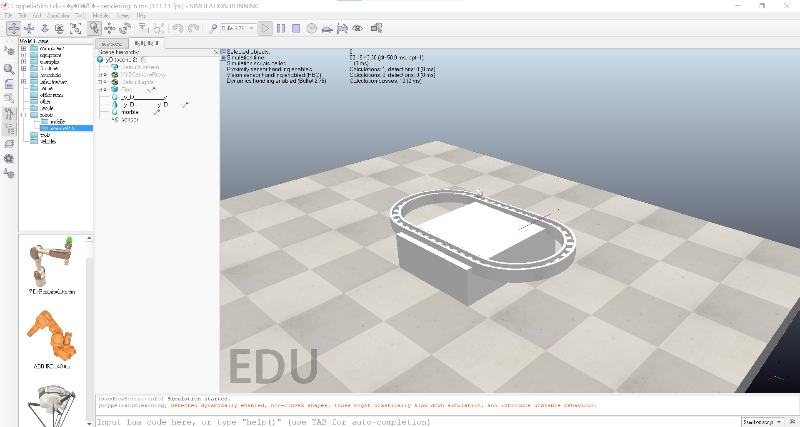
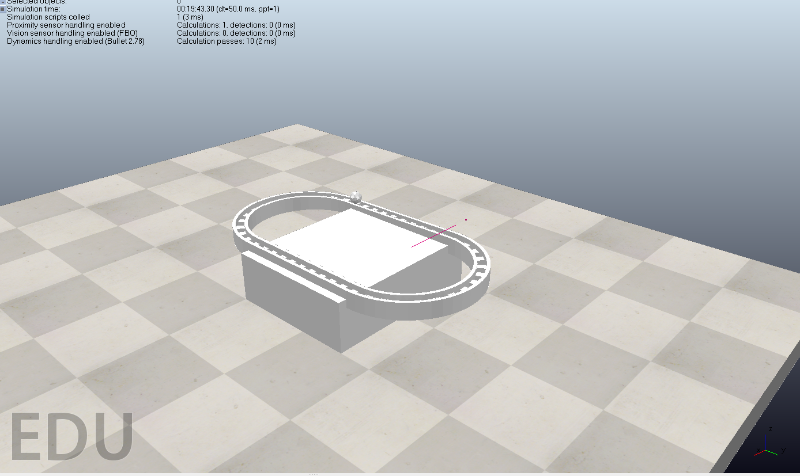
修改 軌道永動機 示意圖片

diff --git a/content/tipuesearch_content.js b/content/tipuesearch_content.js
@@ -1,1 +1,1 @@
-var tipuesearch = {"pages": [{'title': 'About', 'text': ' https://github.com/mdecycu/cmsite  \n', 'tags': '', 'url': 'About.html'}, {'title': '自評', 'text': '\xa0 \n 自評分數:60 \n \xa0 \n A: 是否 按照進度明確標示倉儲的改版歷程  ans.大部分有 \n B: 是否根據  IPv4 與 IPv6  網路環境設定進行作法討論 ans.有時有 \n C: 是否就  Replit、s.cycu.org 與 localhost  情境下對個人與分組倉儲進行設定操作 ans.是 \n D: 是否就所分配的  CAD 套件 從安裝設定到繪圖提供內容參考 ans.是 \n E: 是否使用所分配的 CAD 套件完成 專案一零組件繪圖 , 並提供零組件下載 ans. \n F: 是否將自行繪製的專案一零組件 轉入 CoppeliaSim  ans.是 \n G: 是否利用  ZMQ Remote API Python  對專案一轉入的零組件設定感測器, 並進行 鋼球永動模擬  ans.尚未 \n H: 是否實際操作  Triangle 軌道系統 的鋼球永動模擬 ans.操作過一半 \n I: 是否完成 W15 的平面雙 U 迴路上的 鋼球永動系統繪圖、轉檔與系統模擬  ans.完成繪圖與轉檔 \n J: 是否使用所分配的 CAD 套件完成 專案二 1D 平台零組件繪圖 , 並提供零組件下載 ans.尚未 \n K: 是否利用  ZMQ Remote API Python  對專案二轉入的零組件設定感測器, 並進行鋼球永動模擬 ans.尚未 \n L: 是否針對專案二的 1D 平台鋼球平衡系統所需的  PID 控制理論 進行資料收集與 ChatGPT 對答 ans.尚未 \n 除影片12 13 其他皆以觀看 \n', 'tags': '', 'url': '自評.html'}, {'title': 'exam', 'text': '\n', 'tags': '', 'url': 'exam.html'}, {'title': '專案一', 'text': '', 'tags': '', 'url': '專案一.html'}, {'title': '磁力吸引', 'text': '\n 在第一次作圖時，因為不熟悉Inventor 的一些操作，所以在作圖時間較長。 \n 而當完成時才發現，題目要求Z軸向上<解果當時操作失誤，沒注意就將Y軸向上了。 \n 所以經過翻轉還是沒辦法將Z軸轉上來，所以還是重新作圖了，當然第二次的速度就相對快很多了。 \n \xa0 \n \xa0 \n 示意圖: \n \xa0 \n \n \xa0 \n \xa0 \n \xa0 \n \xa0 \n 零件圖: \n \n \n 底座↑ \n \xa0 \n \xa0 \n \xa0 \n \n 支撐柱 ↑ \n \xa0 \n \xa0 \n \xa0 \n \n 碗↑ \n \xa0 \n \xa0 \n \xa0 \n \n 軌道↑ \n \xa0 \n \xa0 \n 組合圖: \n Inventor圖檔: 連結 \n \xa0 \n \xa0 \n \n', 'tags': '', 'url': '磁力吸引.html'}, {'title': '專案二', 'text': '\xa0 \n \n \n \n', 'tags': '', 'url': '專案二.html'}, {'title': '軌道永動機', 'text': '\xa0 \n 在作圖時，這個看似簡單的原件，在畫軌道時其實是最費時間的， \n 好在最後成功使用陣列功能以及鏡射功能才能迅速地完成。 \n 之後在同學協助下，成功放置感應線，並設定軌道碰撞，讓球落下時可以在預定範圍內移動。 \n \xa0 \n \xa0 \n 示意圖 \n \n \xa0 \n \xa0 \n \xa0 \n 零件圖 \n \xa0 \n \n 底座 ⬆ \n \xa0 \n \n 軌道 ⬆ \n \xa0 \n', 'tags': '', 'url': '軌道永動機.html'}, {'title': 'Brython', 'text': 'https://en.wikipedia.org/wiki/Python_(programming_language) \n Examples: \n https://gist.github.com/mdecycu/d9082d678096bd58378d6afe2c7fa05d \n https://www.geeksforgeeks.org/python-programming-examples/ \n https://www.programiz.com/python-programming/examples \n https://www.freecodecamp.org/news/python-code-examples-sample-script-coding-tutorial-for-beginners/ \n Python Tutorial: \n https://docs.python.org/3/tutorial/ \n An informal introduction to Python \n Indentation (Python 採 4 個 Spaces 縮排, 以界定執行範圍) \n Variables ( Python Keywords ) \n Comments (# 單行註解, 三個單引號或三個雙引號標註多行註解) \n Numbers  (整數 int(), 浮點數 float()) \n Strings  (字串) \n print (Python 內建函式,  print()  函式) \n Python control flow tools \n for \n if \n range \n open \n read \n lists \n tuples \n dictionaries \n functions \n try ... except \n break \n pass \n classes \n 這個頁面 demo 如何在同一頁面下納入多個線上 Ace 編輯器與執行按鈕 ( practice_html.txt  動態頁面超文件). \n practice_html.txt  動態頁面超文件應該可以在啟動 Brython 時, 設定將 .py 檔案放入 downloads/py 目錄中引用. \n 亦即將所有對應的 html 也使用 Brython 產生, 然後寫為  class  後, 在範例導入時透過  instance  引用. \n <!-- 啟動 Brython -->\n<script>\nwindow.onload=function(){\nbrython({debug:1, pythonpath:[\'./../cmsimde/static/\',\'./../downloads/py/\']});\n}\n</script> \n 從 1 累加到 100: \n 1 add to 100 \n 將 iterable 與 iterator  相關說明 , 利用 Brython 與 Ace Editor 整理在這個頁面. \n  導入 brython 程式庫  \n \n \n \n \n  啟動 Brython  \n \n \n \n  導入 FileSaver 與 filereader  \n \n \n \n \n  導入 ace  \n \n \n \n \n \n \n  導入 gearUtils-0.9.js Cango 齒輪繪圖程式庫  \n \n \n \n \n \n \n  請注意, 這裡使用 Javascript 將 localStorage["kw_py_src1"] 中存在近端瀏覽器的程式碼, 由使用者決定存檔名稱 \n \n \n \n \n \n \n  add 1 to 100 開始  \n \n \n  add 1 to 100 結束 \n  editor1 開始  \n  用來顯示程式碼的 editor 區域  \n \n  以下的表單與按鈕與前面的 Javascript doSave 函式以及 FileSaver.min.js 互相配合  \n  存擋表單開始  \n Filename:  .py   \n  存擋表單結束  \n \n  執行與清除按鈕開始  \n Run   Output   清除輸出區 清除繪圖區 Reload \n  執行與清除按鈕結束  \n \n  程式執行 ouput 區  \n \n  Brython 程式執行的結果, 都以 brython_div1 作為切入位置  \n \n  editor1 結束   ##########################################  \n 從 1 累加到 100 part2: \n 1 add to 100 cango_three_gears BSnake AI Tetris Rotating Block \n  請注意, 這裡使用 Javascript 將 localStorage["kw_py_src2"] 中存在近端瀏覽器的程式碼, 由使用者決定存檔名稱 \n \n \n \n  add 1 to 100 part2 開始  \n \n \n  add 1 to 100 part2 結束 \n  editor2 開始  \n  用來顯示程式碼的 editor 區域  \n \n  以下的表單與按鈕與前面的 Javascript doSave 函式以及 FileSaver.min.js 互相配合  \n  存擋表單開始  \n Filename:  .py   \n  存擋表單結束  \n \n  執行與清除按鈕開始  \n Run   Output   清除輸出區 清除繪圖區 Reload \n  執行與清除按鈕結束  \n \n  程式執行 ouput 區  \n \n  Brython 程式執行的結果, 都以 brython_div1 作為切入位置  \n \n  editor2 結束  \n \n \n', 'tags': '', 'url': 'Brython.html'}]};
+var tipuesearch = {"pages": [{'title': 'About', 'text': ' https://github.com/mdecycu/cmsite  \n', 'tags': '', 'url': 'About.html'}, {'title': '自評', 'text': '\xa0 \n 自評分數:60 \n \xa0 \n A: 是否 按照進度明確標示倉儲的改版歷程  ans.大部分有 \n B: 是否根據  IPv4 與 IPv6  網路環境設定進行作法討論 ans.有時有 \n C: 是否就  Replit、s.cycu.org 與 localhost  情境下對個人與分組倉儲進行設定操作 ans.是 \n D: 是否就所分配的  CAD 套件 從安裝設定到繪圖提供內容參考 ans.是 \n E: 是否使用所分配的 CAD 套件完成 專案一零組件繪圖 , 並提供零組件下載 ans. \n F: 是否將自行繪製的專案一零組件 轉入 CoppeliaSim  ans.是 \n G: 是否利用  ZMQ Remote API Python  對專案一轉入的零組件設定感測器, 並進行 鋼球永動模擬  ans.尚未 \n H: 是否實際操作  Triangle 軌道系統 的鋼球永動模擬 ans.操作過一半 \n I: 是否完成 W15 的平面雙 U 迴路上的 鋼球永動系統繪圖、轉檔與系統模擬  ans.完成繪圖與轉檔 \n J: 是否使用所分配的 CAD 套件完成 專案二 1D 平台零組件繪圖 , 並提供零組件下載 ans.尚未 \n K: 是否利用  ZMQ Remote API Python  對專案二轉入的零組件設定感測器, 並進行鋼球永動模擬 ans.尚未 \n L: 是否針對專案二的 1D 平台鋼球平衡系統所需的  PID 控制理論 進行資料收集與 ChatGPT 對答 ans.尚未 \n 除影片12 13 其他皆以觀看 \n', 'tags': '', 'url': '自評.html'}, {'title': 'exam', 'text': '\n', 'tags': '', 'url': 'exam.html'}, {'title': '專案一', 'text': '', 'tags': '', 'url': '專案一.html'}, {'title': '磁力吸引', 'text': '\n 在第一次作圖時，因為不熟悉Inventor 的一些操作，所以在作圖時間較長。 \n 而當完成時才發現，題目要求Z軸向上<解果當時操作失誤，沒注意就將Y軸向上了。 \n 所以經過翻轉還是沒辦法將Z軸轉上來，所以還是重新作圖了，當然第二次的速度就相對快很多了。 \n \xa0 \n \xa0 \n 示意圖: \n \xa0 \n \n \xa0 \n \xa0 \n \xa0 \n \xa0 \n 零件圖: \n \n \n 底座↑ \n \xa0 \n \xa0 \n \xa0 \n \n 支撐柱 ↑ \n \xa0 \n \xa0 \n \xa0 \n \n 碗↑ \n \xa0 \n \xa0 \n \xa0 \n \n 軌道↑ \n \xa0 \n \xa0 \n 組合圖: \n Inventor圖檔: 連結 \n \xa0 \n \xa0 \n \n', 'tags': '', 'url': '磁力吸引.html'}, {'title': '專案二', 'text': '\xa0 \n \n \n \n', 'tags': '', 'url': '專案二.html'}, {'title': '軌道永動機', 'text': '\xa0 \n 在作圖時，這個看似簡單的原件，在畫軌道時其實是最費時間的， \n 好在最後成功使用陣列功能以及鏡射功能才能迅速地完成。 \n 之後在同學協助下，成功放置感應線，並設定軌道碰撞，讓球落下時可以在預定範圍內移動。 \n \xa0 \n \xa0 \n 示意圖 \n   \n \xa0 \n \xa0 \n 零件圖 \n \xa0 \n \n 底座 ⬆ \n \xa0 \n \n 軌道 ⬆ \n \xa0 \n', 'tags': '', 'url': '軌道永動機.html'}, {'title': 'Brython', 'text': 'https://en.wikipedia.org/wiki/Python_(programming_language) \n Examples: \n https://gist.github.com/mdecycu/d9082d678096bd58378d6afe2c7fa05d \n https://www.geeksforgeeks.org/python-programming-examples/ \n https://www.programiz.com/python-programming/examples \n https://www.freecodecamp.org/news/python-code-examples-sample-script-coding-tutorial-for-beginners/ \n Python Tutorial: \n https://docs.python.org/3/tutorial/ \n An informal introduction to Python \n Indentation (Python 採 4 個 Spaces 縮排, 以界定執行範圍) \n Variables ( Python Keywords ) \n Comments (# 單行註解, 三個單引號或三個雙引號標註多行註解) \n Numbers  (整數 int(), 浮點數 float()) \n Strings  (字串) \n print (Python 內建函式,  print()  函式) \n Python control flow tools \n for \n if \n range \n open \n read \n lists \n tuples \n dictionaries \n functions \n try ... except \n break \n pass \n classes \n 這個頁面 demo 如何在同一頁面下納入多個線上 Ace 編輯器與執行按鈕 ( practice_html.txt  動態頁面超文件). \n practice_html.txt  動態頁面超文件應該可以在啟動 Brython 時, 設定將 .py 檔案放入 downloads/py 目錄中引用. \n 亦即將所有對應的 html 也使用 Brython 產生, 然後寫為  class  後, 在範例導入時透過  instance  引用. \n <!-- 啟動 Brython -->\n<script>\nwindow.onload=function(){\nbrython({debug:1, pythonpath:[\'./../cmsimde/static/\',\'./../downloads/py/\']});\n}\n</script> \n 從 1 累加到 100: \n 1 add to 100 \n 將 iterable 與 iterator  相關說明 , 利用 Brython 與 Ace Editor 整理在這個頁面. \n  導入 brython 程式庫  \n \n \n \n \n  啟動 Brython  \n \n \n \n  導入 FileSaver 與 filereader  \n \n \n \n \n  導入 ace  \n \n \n \n \n \n \n  導入 gearUtils-0.9.js Cango 齒輪繪圖程式庫  \n \n \n \n \n \n \n  請注意, 這裡使用 Javascript 將 localStorage["kw_py_src1"] 中存在近端瀏覽器的程式碼, 由使用者決定存檔名稱 \n \n \n \n \n \n \n  add 1 to 100 開始  \n \n \n  add 1 to 100 結束 \n  editor1 開始  \n  用來顯示程式碼的 editor 區域  \n \n  以下的表單與按鈕與前面的 Javascript doSave 函式以及 FileSaver.min.js 互相配合  \n  存擋表單開始  \n Filename:  .py   \n  存擋表單結束  \n \n  執行與清除按鈕開始  \n Run   Output   清除輸出區 清除繪圖區 Reload \n  執行與清除按鈕結束  \n \n  程式執行 ouput 區  \n \n  Brython 程式執行的結果, 都以 brython_div1 作為切入位置  \n \n  editor1 結束   ##########################################  \n 從 1 累加到 100 part2: \n 1 add to 100 cango_three_gears BSnake AI Tetris Rotating Block \n  請注意, 這裡使用 Javascript 將 localStorage["kw_py_src2"] 中存在近端瀏覽器的程式碼, 由使用者決定存檔名稱 \n \n \n \n  add 1 to 100 part2 開始  \n \n \n  add 1 to 100 part2 結束 \n  editor2 開始  \n  用來顯示程式碼的 editor 區域  \n \n  以下的表單與按鈕與前面的 Javascript doSave 函式以及 FileSaver.min.js 互相配合  \n  存擋表單開始  \n Filename:  .py   \n  存擋表單結束  \n \n  執行與清除按鈕開始  \n Run   Output   清除輸出區 清除繪圖區 Reload \n  執行與清除按鈕結束  \n \n  程式執行 ouput 區  \n \n  Brython 程式執行的結果, 都以 brython_div1 作為切入位置  \n \n  editor2 結束  \n \n \n', 'tags': '', 'url': 'Brython.html'}]};

diff --git a/config/content_backup.htm b/config/content_backup.htm
@@ -69,12 +69,12 @@
 <p> </p>
 <p>在作圖時，這個看似簡單的原件，在畫軌道時其實是最費時間的，</p>
 <p>好在最後成功使用陣列功能以及鏡射功能才能迅速地完成。</p>
+<p>之後在同學協助下，成功放置感應線，並設定軌道碰撞，讓球落下時可以在預定範圍內移動。</p>
 <p> </p>
 <p> </p>
 <p>示意圖</p>
-<p> </p>
-<p></p>
-<p><img alt="" height="267" src="/images/永動機組合圖 有球.png" width="500"/></p>
+<p><img alt="" height="267" src="/images/球未掉落.png" width="500"/></p>
+<p> <img alt="" height="267" src="/images/球掉落軌道.png" width="500"/></p>
 <p> </p>
 <p> </p>
 <p>零件圖</p>
@@ -85,8 +85,7 @@
 <p><img alt="" height="268" src="/images/軌道.png" width="500"/></p>
 <p>軌道 ⬆</p>
 <p> </p>
-<p></p>
-<h1>Brython</h1>
+<p></p><h1>Brython</h1>
 <p><a href="https://en.wikipedia.org/wiki/Python_(programming_language)">https://en.wikipedia.org/wiki/Python_(programming_language)</a></p>
 <h4>Examples:</h4>
 <p style="padding-left: 30px;"><a href="https://gist.github.com/mdecycu/d9082d678096bd58378d6afe2c7fa05d">https://gist.github.com/mdecycu/d9082d678096bd58378d6afe2c7fa05d</a></p>

diff --git a/content/軌道永動機.html b/content/軌道永動機.html
@@ -150,8 +150,7 @@ img.add_border {
 <p> </p>
 <p> </p>
 <p>示意圖</p>
-<p><img alt="" height="267" src="./../images/球未掉落.png" width="500"/></p>
-<p> <img alt="" height="267" src="./../images/球掉落軌道.png" width="500"/></p>
+<p><img alt="" height="267" src="./../images/球未掉落.png" width="500"/> <img alt="" height="267" src="./../images/球掉落軌道.png" width="500"/></p>
 <p> </p>
 <p> </p>
 <p>零件圖</p>

diff --git a/config/content.htm b/config/content.htm
@@ -73,8 +73,7 @@
 <p> </p>
 <p> </p>
 <p>示意圖</p>
-<p><img alt="" height="267" src="/images/球未掉落.png" width="500"/></p>
-<p> <img alt="" height="267" src="/images/球掉落軌道.png" width="500"/></p>
+<p><img alt="" height="267" src="/images/球未掉落.png" width="500"/> <img alt="" height="267" src="/images/球掉落軌道.png" width="500"/></p>
 <p> </p>
 <p> </p>
 <p>零件圖</p>
